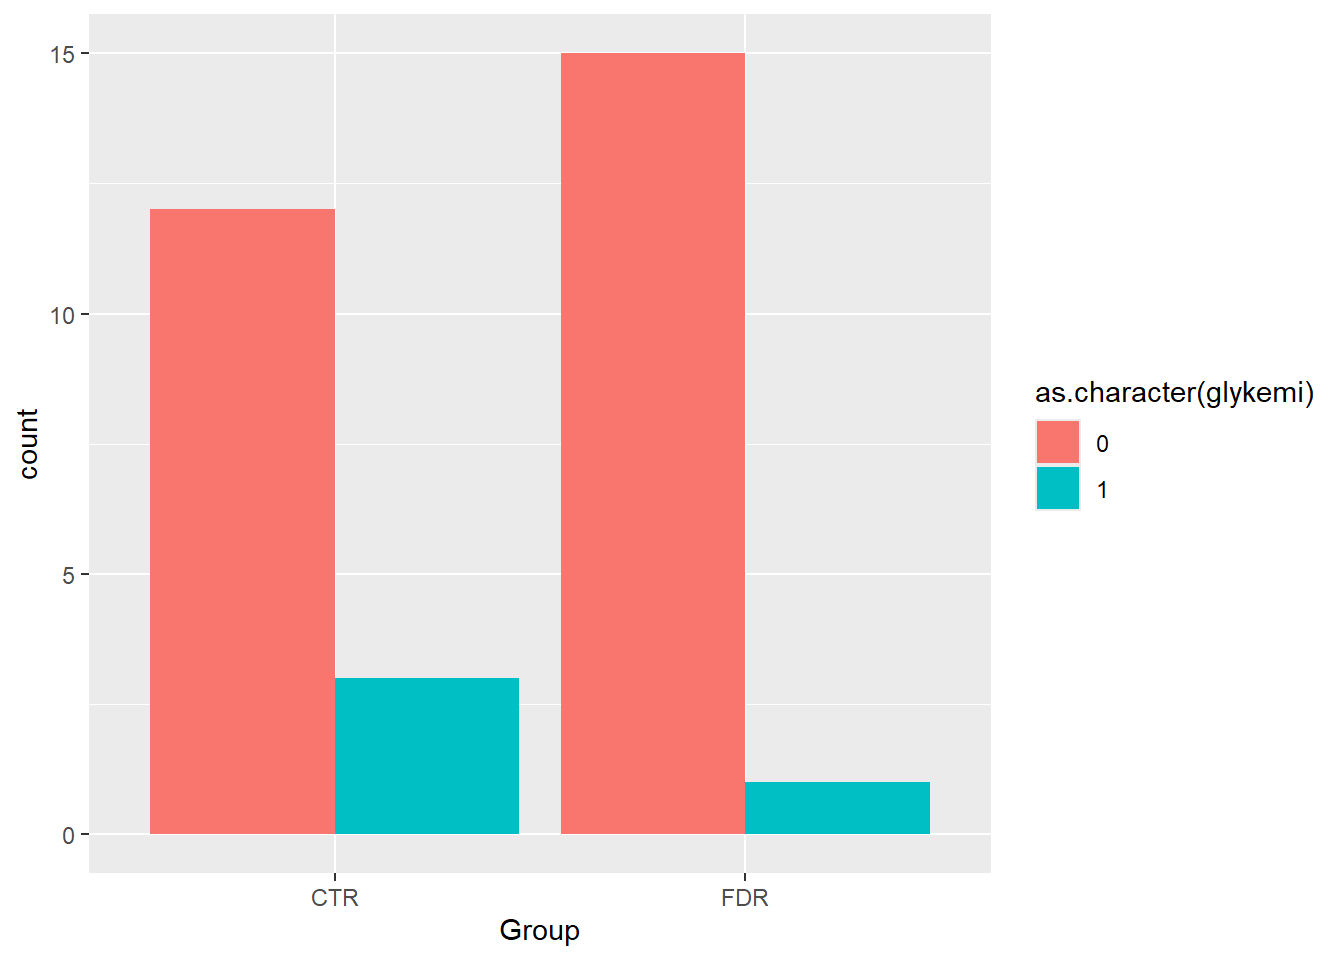
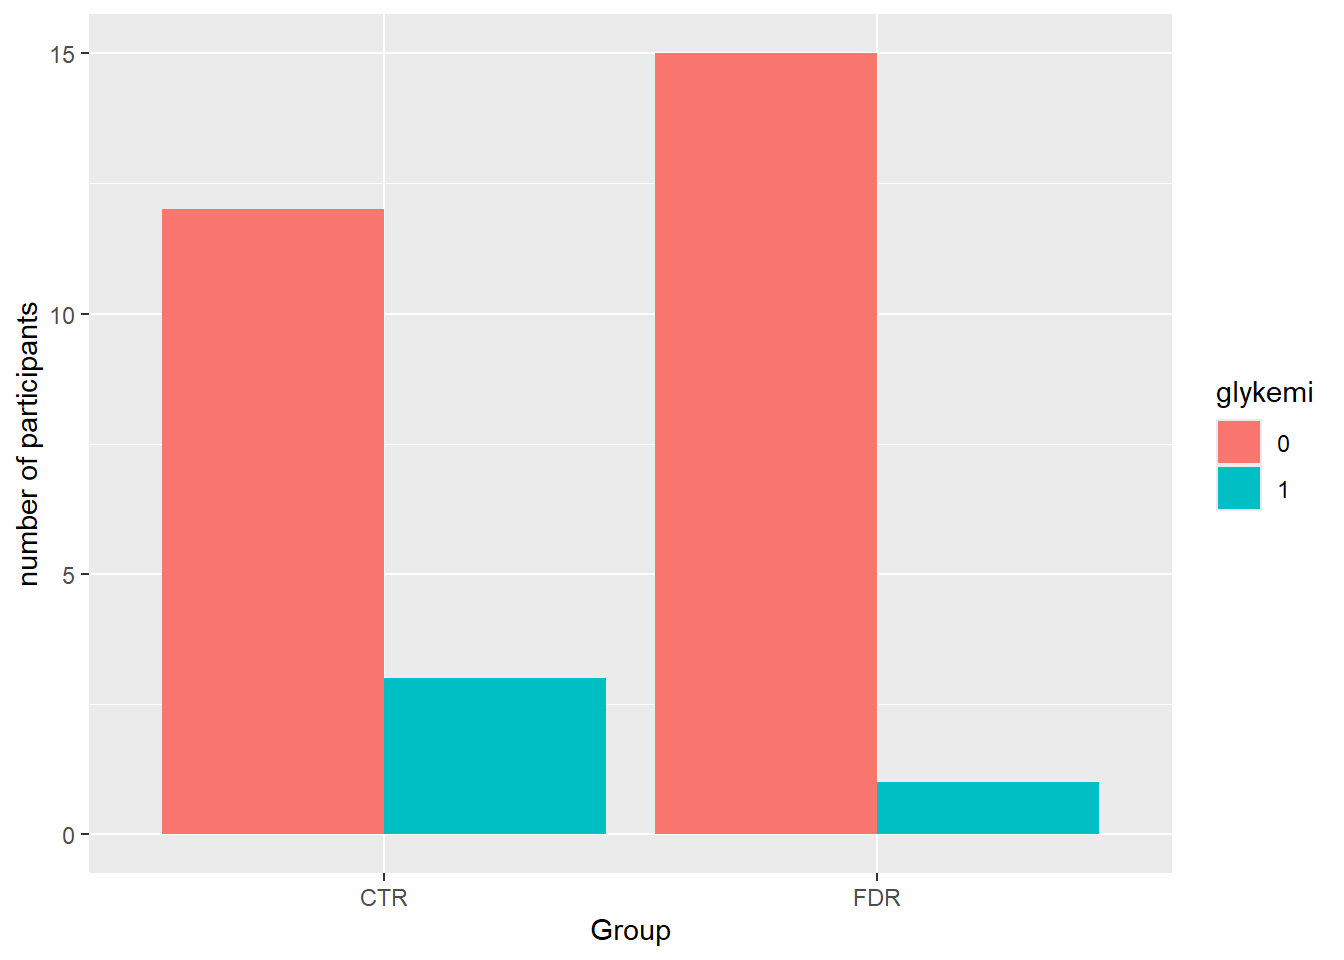
data visualization

diff --git a/docs/learning.html b/docs/learning.html
@@ -323,7 +323,7 @@ $ glykemi                  &lt;dbl&gt; 0, 0, 0, 0, 0, 0, 0, 0, 0, 0, 0, 0, 0, 0,
 </div>
 <p>##Exercise: Plot discrete variable</p>
 <div class="cell">
-<div class="sourceCode cell-code" id="cb23"><pre class="sourceCode r code-with-copy"><code class="sourceCode r"><span id="cb23-1"><a href="#cb23-1" aria-hidden="true" tabindex="-1"></a><span class="fu">ggplot</span>(post_meal_data, <span class="fu">aes</span>(<span class="at">x =</span>Group))<span class="sc">+</span></span>
+<div class="sourceCode cell-code" id="cb23"><pre class="sourceCode r code-with-copy"><code class="sourceCode r"><span id="cb23-1"><a href="#cb23-1" aria-hidden="true" tabindex="-1"></a><span class="fu">ggplot</span>(post_meal_data, <span class="fu">aes</span>(<span class="at">x =</span>glykemi))<span class="sc">+</span></span>
 <span id="cb23-2"><a href="#cb23-2" aria-hidden="true" tabindex="-1"></a><span class="fu">geom_bar</span>()</span></code><button title="Copy to Clipboard" class="code-copy-button"><i class="bi"></i></button></pre></div>
 <div class="cell-output-display">
 <div id="fig-group-histo" class="quarto-float quarto-figure quarto-figure-center anchored">
@@ -332,13 +332,13 @@ $ glykemi                  &lt;dbl&gt; 0, 0, 0, 0, 0, 0, 0, 0, 0, 0, 0, 0, 0, 0,
 <img src="learning_files/figure-html/fig-group-histo-1.png" class="img-fluid figure-img" width="672">
 </div>
 <figcaption class="quarto-float-caption-bottom quarto-float-caption quarto-float-fig" id="fig-group-histo-caption-0ceaefa1-69ba-4598-a22c-09a6ac19f8ca">
-Figure&nbsp;1: group
+Figure&nbsp;1: glykemi
 </figcaption>
 </figure>
 </div>
 </div>
 </div>
-<p><span class="citation" data-cites="See">@See</span> <strong>?@fig-glykemi-histo</strong> above for a cool plot!</p>
+<p>See <a href="#fig-group-histo" class="quarto-xref">Figure&nbsp;1</a> above for a cool plot!</p>
 </section>
 <section id="plorting-two-discrete-variables" class="level2">
 <h2 class="anchored" data-anchor-id="plorting-two-discrete-variables">Plorting two discrete variables</h2>
@@ -374,7 +374,8 @@ Figure&nbsp;1: group
 </div>
 <div class="cell">
 <div class="sourceCode cell-code" id="cb27"><pre class="sourceCode r code-with-copy"><code class="sourceCode r"><span id="cb27-1"><a href="#cb27-1" aria-hidden="true" tabindex="-1"></a><span class="fu">ggplot</span>(post_meal_data, <span class="fu">aes</span>(<span class="at">x =</span> Group, <span class="at">fill =</span> <span class="fu">as.character</span>(glykemi))) <span class="sc">+</span></span>
-<span id="cb27-2"><a href="#cb27-2" aria-hidden="true" tabindex="-1"></a>  <span class="fu">geom_bar</span>(<span class="at">position =</span> <span class="fu">position_dodge</span>())</span></code><button title="Copy to Clipboard" class="code-copy-button"><i class="bi"></i></button></pre></div>
+<span id="cb27-2"><a href="#cb27-2" aria-hidden="true" tabindex="-1"></a>  <span class="fu">geom_bar</span>(<span class="at">position =</span> <span class="fu">position_dodge</span>())<span class="sc">+</span></span>
+<span id="cb27-3"><a href="#cb27-3" aria-hidden="true" tabindex="-1"></a>  <span class="fu">labs</span>(<span class="at">fill=</span><span class="st">"glykemi"</span>, <span class="at">y=</span><span class="st">"number of participants"</span>)</span></code><button title="Copy to Clipboard" class="code-copy-button"><i class="bi"></i></button></pre></div>
 <div class="cell-output-display">
 <div>
 <figure class="figure">
@@ -382,6 +383,77 @@ Figure&nbsp;1: group
 </figure>
 </div>
 </div>
+</div>
+<div class="cell">
+<div class="sourceCode cell-code" id="cb28"><pre class="sourceCode r code-with-copy"><code class="sourceCode r"><span id="cb28-1"><a href="#cb28-1" aria-hidden="true" tabindex="-1"></a><span class="co">#| label: fig-bmi-glycemia</span></span>
+<span id="cb28-2"><a href="#cb28-2" aria-hidden="true" tabindex="-1"></a><span class="co">#| fig-cap: "BMI and glycemia, side by side."</span></span>
+<span id="cb28-3"><a href="#cb28-3" aria-hidden="true" tabindex="-1"></a><span class="co">#| fig-subcap:</span></span>
+<span id="cb28-4"><a href="#cb28-4" aria-hidden="true" tabindex="-1"></a><span class="co">#|   - "Distribution of BMI."</span></span>
+<span id="cb28-5"><a href="#cb28-5" aria-hidden="true" tabindex="-1"></a><span class="co">#|   - "Number of those with glycemia."</span></span>
+<span id="cb28-6"><a href="#cb28-6" aria-hidden="true" tabindex="-1"></a><span class="co">#| layout-ncol: 2</span></span>
+<span id="cb28-7"><a href="#cb28-7" aria-hidden="true" tabindex="-1"></a><span class="fu">ggplot</span>(post_meal_data, <span class="fu">aes</span>(<span class="at">x =</span> BMI)) <span class="sc">+</span></span>
+<span id="cb28-8"><a href="#cb28-8" aria-hidden="true" tabindex="-1"></a>  <span class="fu">geom_histogram</span>()</span></code><button title="Copy to Clipboard" class="code-copy-button"><i class="bi"></i></button></pre></div>
+<div class="cell-output cell-output-stderr">
+<pre><code>`stat_bin()` using `bins = 30`. Pick better value with `binwidth`.</code></pre>
+</div>
+<div class="cell-output-display">
+<div>
+<figure class="figure">
+<p><img src="learning_files/figure-html/side%20by%20side%20figs-1.png" class="img-fluid figure-img" width="672"></p>
+</figure>
+</div>
+</div>
+<div class="sourceCode cell-code" id="cb30"><pre class="sourceCode r code-with-copy"><code class="sourceCode r"><span id="cb30-1"><a href="#cb30-1" aria-hidden="true" tabindex="-1"></a><span class="fu">ggplot</span>(post_meal_data, <span class="fu">aes</span>(<span class="at">x =</span> glykemi)) <span class="sc">+</span></span>
+<span id="cb30-2"><a href="#cb30-2" aria-hidden="true" tabindex="-1"></a>  <span class="fu">geom_bar</span>()</span></code><button title="Copy to Clipboard" class="code-copy-button"><i class="bi"></i></button></pre></div>
+<div class="cell-output-display">
+<div>
+<figure class="figure">
+<p><img src="learning_files/figure-html/side%20by%20side%20figs-2.png" class="img-fluid figure-img" width="672"></p>
+</figure>
+</div>
+</div>
+</div>
+<div class="sourceCode cell-code" id="cb31"><pre class="sourceCode r code-with-copy"><code class="sourceCode r"><span id="cb31-1"><a href="#cb31-1" aria-hidden="true" tabindex="-1"></a><span class="fu">ggplot</span>(post_meal_data, <span class="fu">aes</span>(<span class="at">x =</span> BMI)) <span class="sc">+</span></span>
+<span id="cb31-2"><a href="#cb31-2" aria-hidden="true" tabindex="-1"></a>  <span class="fu">geom_histogram</span>()</span></code><button title="Copy to Clipboard" class="code-copy-button"><i class="bi"></i></button></pre></div>
+<div class="cell-output cell-output-stderr">
+<pre><code>`stat_bin()` using `bins = 30`. Pick better value with `binwidth`.</code></pre>
+</div>
+<div class="sourceCode cell-code" id="cb33"><pre class="sourceCode r code-with-copy"><code class="sourceCode r"><span id="cb33-1"><a href="#cb33-1" aria-hidden="true" tabindex="-1"></a><span class="fu">ggplot</span>(post_meal_data, <span class="fu">aes</span>(<span class="at">x =</span> glykemi)) <span class="sc">+</span></span>
+<span id="cb33-2"><a href="#cb33-2" aria-hidden="true" tabindex="-1"></a>  <span class="fu">geom_bar</span>()</span></code><button title="Copy to Clipboard" class="code-copy-button"><i class="bi"></i></button></pre></div>
+<div id="fig-bmi-glycemia" class="quarto-layout-panel">
+<figure class="quarto-float quarto-float-fig figure">
+<div aria-describedby="fig-bmi-glycemia-caption-0ceaefa1-69ba-4598-a22c-09a6ac19f8ca">
+<div class="quarto-layout-row">
+<div class="cell-output-display quarto-layout-cell-subref quarto-layout-cell" data-ref-parent="fig-bmi-glycemia" style="flex-basis: 50.0%;justify-content: flex-start;">
+<div id="fig-bmi-glycemia-1" class="quarto-float quarto-figure quarto-figure-center anchored">
+<figure class="quarto-float quarto-subfloat-fig figure">
+<div aria-describedby="fig-bmi-glycemia-1-caption-0ceaefa1-69ba-4598-a22c-09a6ac19f8ca">
+<img src="learning_files/figure-html/fig-bmi-glycemia-1.png" class="img-fluid figure-img" data-ref-parent="fig-bmi-glycemia" width="672">
+</div>
+<figcaption class="quarto-float-caption-bottom quarto-subfloat-caption quarto-subfloat-fig" id="fig-bmi-glycemia-1-caption-0ceaefa1-69ba-4598-a22c-09a6ac19f8ca">
+(a) Distribution of BMI.
+</figcaption>
+</figure>
+</div>
+</div>
+<div class="cell-output-display quarto-layout-cell-subref quarto-layout-cell" data-ref-parent="fig-bmi-glycemia" style="flex-basis: 50.0%;justify-content: flex-start;">
+<div id="fig-bmi-glycemia-2" class="quarto-float quarto-figure quarto-figure-center anchored">
+<figure class="quarto-float quarto-subfloat-fig figure">
+<div aria-describedby="fig-bmi-glycemia-2-caption-0ceaefa1-69ba-4598-a22c-09a6ac19f8ca">
+<img src="learning_files/figure-html/fig-bmi-glycemia-2.png" class="img-fluid figure-img" data-ref-parent="fig-bmi-glycemia" width="672">
+</div>
+<figcaption class="quarto-float-caption-bottom quarto-subfloat-caption quarto-subfloat-fig" id="fig-bmi-glycemia-2-caption-0ceaefa1-69ba-4598-a22c-09a6ac19f8ca">
+(b) Number of those with glycemia.
+</figcaption>
+</figure>
+</div>
+</div>
+</div>
+</div>
+<figcaption class="quarto-float-caption-bottom quarto-float-caption quarto-float-fig" id="fig-bmi-glycemia-caption-0ceaefa1-69ba-4598-a22c-09a6ac19f8ca">
+Figure&nbsp;2: BMI and glycemia, side by side.
+</figcaption>
+</figure>
 </div>
 </section>
 </section>
